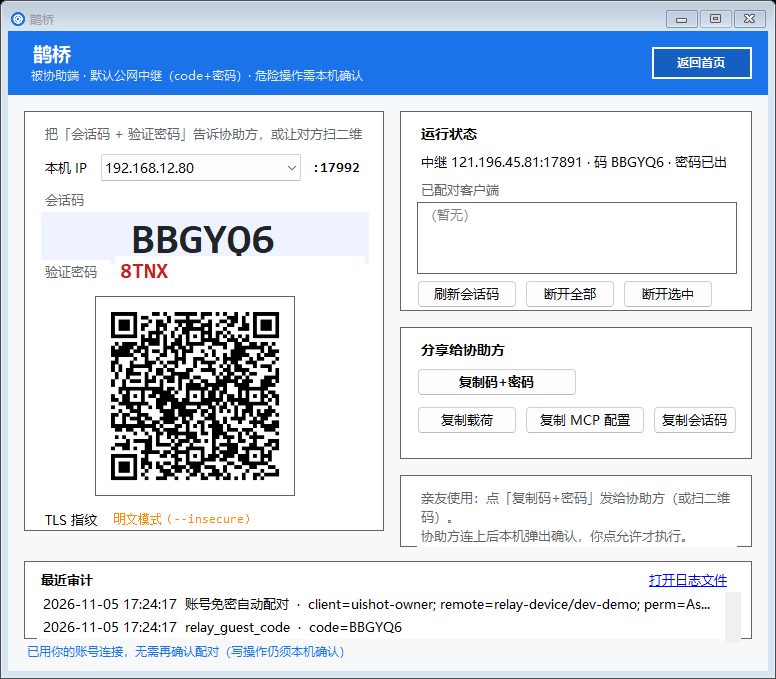
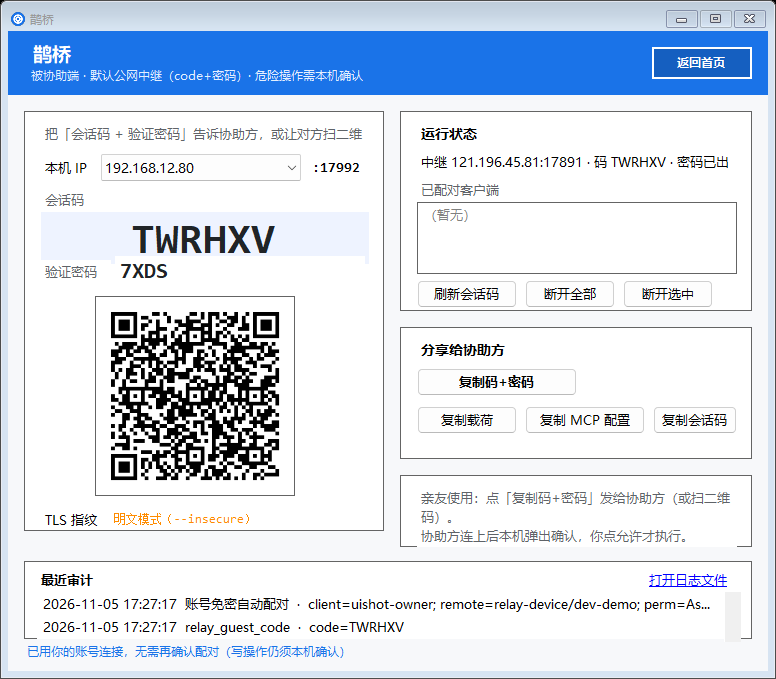
feat(R002b): 首页亲友向文案三项 + 验证密码同色
- 首页页脚只留「选上面一项即可。」；IP/端口/--accept/--control 收进「高级」
- 「接受协助」去掉「（被控）」并补验证密码说明；去协助入口改为粘贴会话码和验证密码
- 被协助端验证密码与会话码同色（非红）
- 更新 round-002/roadmap/retro 与 r002 截图

diff --git a/src/RemoteAssist.App/ModeSelectForm.cs b/src/RemoteAssist.App/ModeSelectForm.cs
@@ -6,12 +6,17 @@ using RemoteAssist;
 namespace RemoteAssist.App;
 
 /// <summary>
-/// 启动首页：接受协助（被控） / 去协助别人（控制）。
+/// 启动首页：接受协助 / 去协助别人。
 /// </summary>
 internal sealed class ModeSelectForm : Form
 {
     public event Action? AcceptClicked;
     public event Action? ControlClicked;
+
+    private readonly Label _footerHint;
+    private readonly Label _advancedDetail;
+    private readonly LinkLabel _advancedToggle;
+    private bool _advancedOpen;
 
     public ModeSelectForm()
     {
@@ -53,31 +58,63 @@ internal sealed class ModeSelectForm : Form
         Controls.Add(header);
 
         var btnAccept = MakeModeButton(
-            "接受协助（被控）",
-            "生成本机会话码 / 二维码，让亲友或同事连过来帮你排查。危险操作需你本机确认。",
+            "接受协助",
+            "生成本机会话码和验证密码，让亲友或同事连过来帮你排查。危险操作需你本机确认。",
             Color.FromArgb(0x1A, 0x73, 0xE8),
             24, 112);
         btnAccept.Click += (_, _) => AcceptClicked?.Invoke();
         Controls.Add(btnAccept);
 
         var btnControl = MakeModeButton(
-            "去协助别人（控制）",
-            "粘贴对方会话载荷或会话码，连接后查看进程 / 日志 / 文件，或提议执行命令。",
+            "去协助别人",
+            "粘贴对方发来的会话码和验证密码，连接后查看进程 / 日志 / 文件，或提议执行命令。",
             Color.FromArgb(0x0F, 0x9D, 0x58),
             24, 230);
         btnControl.Click += (_, _) => ControlClicked?.Invoke();
         Controls.Add(btnControl);
 
-        Controls.Add(new Label
+        _footerHint = new Label
         {
             AutoSize = false,
             Location = new Point(24, 360),
-            Size = new Size(512, 40),
+            Size = new Size(400, 24),
             ForeColor = Color.FromArgb(0x5F, 0x63, 0x68),
-            Text = "默认公网中继 121.196.45.81:17891（code+密码；设置可改）；局域网仍可用于高级调试。可用 --accept / --control 直达模式。"
-        });
+            Text = "选上面一项即可。"
+        };
+        Controls.Add(_footerHint);
+
+        _advancedToggle = new LinkLabel
+        {
+            AutoSize = true,
+            Location = new Point(430, 360),
+            Text = "高级",
+            LinkColor = Color.FromArgb(0x1A, 0x73, 0xE8),
+            ActiveLinkColor = Color.FromArgb(0x0F, 0x5C, 0xBF),
+            LinkBehavior = LinkBehavior.HoverUnderline
+        };
+        _advancedToggle.LinkClicked += (_, _) => ToggleAdvanced();
+        Controls.Add(_advancedToggle);
+
+        _advancedDetail = new Label
+        {
+            AutoSize = false,
+            Location = new Point(24, 384),
+            Size = new Size(512, 48),
+            ForeColor = Color.FromArgb(0x5F, 0x63, 0x68),
+            Visible = false,
+            Text = "默认公网中继 121.196.45.81:17891（code+密码；设置可改）；局域网仍可用于调试。可用 --accept / --control 直达模式。"
+        };
+        Controls.Add(_advancedDetail);
 
         UiWindowPlacement.Bind(this, restoreSize: false);
+    }
+
+    private void ToggleAdvanced()
+    {
+        _advancedOpen = !_advancedOpen;
+        _advancedDetail.Visible = _advancedOpen;
+        _advancedToggle.Text = _advancedOpen ? "收起" : "高级";
+        ClientSize = new Size(560, _advancedOpen ? 448 : 420);
     }
 
     private static Button MakeModeButton(string title, string subtitle, Color accent, int x, int y)
@@ -97,7 +134,6 @@ internal sealed class ModeSelectForm : Form
         btn.FlatAppearance.BorderSize = 1;
         btn.FlatAppearance.MouseOverBackColor = Color.FromArgb(0xF0, 0xF4, 0xFF);
 
-        // Owner-draw-ish via Text + Tag; use two labels overlaid by painting
         btn.Text = "";
         var titleLabel = new Label
         {
@@ -126,7 +162,6 @@ internal sealed class ModeSelectForm : Form
         btn.Controls.Add(titleLabel);
         btn.Controls.Add(subLabel);
 
-        // left accent bar
         var bar = new Panel
         {
             Location = new Point(0, 0),
@@ -154,5 +189,3 @@ internal sealed class ModeSelectForm : Form
         return (Icon)tmp.Clone();
     }
 }
-
-

diff --git a/src/RemoteAssist.Agent/MainForm.cs b/src/RemoteAssist.Agent/MainForm.cs
@@ -183,7 +183,7 @@ internal sealed class MainForm : Form
             Size = new Size(250, 30),
             TextAlign = ContentAlignment.MiddleLeft,
             Font = new Font("Consolas", 16F, FontStyle.Bold),
-            ForeColor = Color.FromArgb(0xC5, 0x22, 0x1F),
+            ForeColor = Color.FromArgb(0x20, 0x24, 0x27),
             Text = ""
         };
         sessionCard.Controls.Add(_pwdLabel);

diff --git a/docs/roadmap.md b/docs/roadmap.md
@@ -10,7 +10,7 @@
 | 轮次 | 项 | 负责 | 状态 | 文档 |
 |------|----|------|------|------|
 | R001 | 被控「一键复制码+密码」+ 品牌文案「鹊桥」 | 鹊桥-客户端 | **done** | `docs/round-001.md` |
-| R002 | 高频：ownerLink 专项验收；打磨：品牌扫尾 + 首页文案（体验 1/2/4） | 鹊桥-客户端 | **wip** | `docs/round-002.md` |
+| R002 | 高频：ownerLink 专项验收；打磨：品牌扫尾 + 首页文案（体验 1/2/4） | 鹊桥-客户端 | **done** | `docs/round-002.md` |
 | R003 | 高频：连不上引导 + 联网允许；打磨：首屏减负、一次粘贴填入 | 鹊桥-客户端 | **planned** | `docs/round-003.md` |
 
 ## P0 — 可演示闭环（不后挪）
@@ -55,7 +55,7 @@
 
 | 项 | 负责 | 状态 | 验收 |
 |----|------|------|------|
-| 技术栈与部署（端口 80、安全组、是否独立 Go 进程） | 鹊桥-架构 | **todo** | 写入 architecture / 部署文档；不装重软件 |
+| 技术栈与部署（端口 80、安全组、独立 Go 进程） | 鹊桥-架构 | **done** | `architecture.md` §14 与 `docs/site-deploy.md`：`remote-assist-site`、:80、site.db、口令走 /etc/remote-assist-site.env、MemoryMax=64M |
 | 静态介绍页 + 接单表单（本地预览） | 鹊桥-服务端 | **done** | `site/index.html` `ask.html` `thanks.html`；表单校验后跳转成功页。API/后台/`/admin` 待架构部署约定后做 |
 ## 明确暂缓
 

diff --git a/docs/round-002.md b/docs/round-002.md
@@ -2,7 +2,7 @@
 
 > 产品负责人：鹊桥-产品 · 2026-11-05 Asia/Shanghai
 > 实现：鹊桥-客户端（只改 src/，不改中继）
-> 状态：**wip**
+> 状态：**done**
 > 依据：PRODUCT.md 权限规则、场景 S003、鹊桥-体验对 r001-after-home.png / r001-after-agent.png 的评审
 > 说明：r001-after-agent-refreshed.png 不是本产品界面，不作为验收依据。
 
@@ -39,3 +39,9 @@
 ## 完成后
 
 更新 docs/roadmap.md、追加 docs/retro.md、截图 docs/screenshots/r002-*.png，回告产品 bot。
+
+## 完成记录（2026-11-05 Asia/Shanghai）
+
+- ownerLink 验收矩阵与品牌扫尾：见 `88db2b2`
+- 文案三项已落地：首页页脚「选上面一项即可。」+「高级」收纳 IP/端口/`--accept`/`--control`；「接受协助」去掉「（被控）」并补验证密码说明；「去协助别人」改为粘贴会话码和验证密码；被协助端验证密码与会话码同色（非红）
+- 截图：`docs/screenshots/r002-*.png`

diff --git a/docs/retro.md b/docs/retro.md
@@ -34,3 +34,8 @@
 - **踩坑**：仅客户端声明 `OwnerLink=true` 不够，必须中继/测试武装的 owner 通道；伪造标志不得跳过配对窗（已单测）。
 - **规则候选**：权限相关验收优先可无 UI 的 headless 矩阵 + 审计断言；截图仍用 DrawToBitmap。
 
+## R002b — 首页亲友向文案三项（2026-11-05）
+
+- **交付**：首页页脚只留「选上面一项即可。」；IP/端口/`--accept`/`--control` 进「高级」；去掉「（被控）」并补验证密码说明；协助入口改为「粘贴对方发来的会话码和验证密码」；验证密码与会话码同色。
+- **踩坑**：无（纯文案/颜色）。
+- **规则候选**：亲友首页默认零技术细节；调试信息一律折叠进「高级」。
